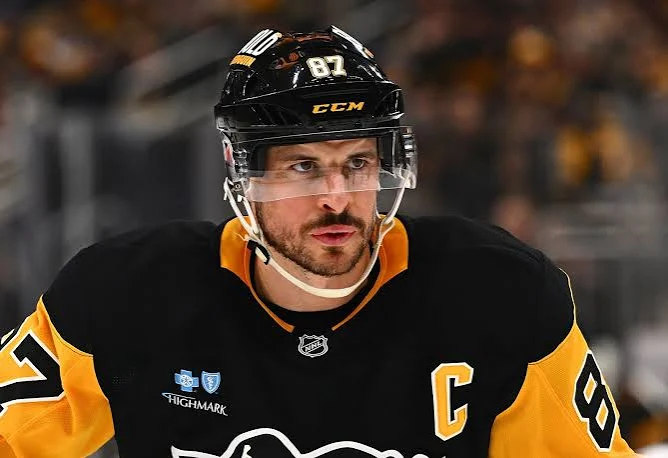
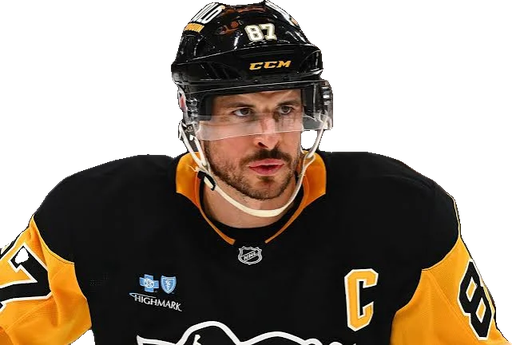
feat(demo): cut photo backgrounds, Mario auto-login, full coach view (Jack Adams)
- Background-remove all 15 NHLer photos (rembg/U2-Net) to transparent PNGs so
  only the player shows on the card, matching Lewie's portrait treatment.
- Demo player login (hi@woodymacduffie.com + 'player') signs straight in as
  Mario Lemieux (no picker); greeting now reads 'Hey Mario'.
- Coach view is a full separate team too: intercept the demo coach's
  /api/coach roster/schedule/team-coaches reads client-side so Coach Home shows
  the 15 NHLers, participation, top-this-week, the USSR next game, and Jack Adams
  (with his cut-out photo) in the coaches strip.
- Move demo script includes to top of body so the coach fetch shim installs
  before the coach boot fires.

diff --git a/index.html b/index.html
@@ -1126,7 +1126,7 @@ body.login-locked{overflow:hidden}
   .sp-sass,.sp-skater,.sp-frame,.sp-bubble-img,.sp-burst-img,.sp-shards,.sp-speed,.sp-speed i,.sp-ice,.sp-crack{transition:none!important;animation:none!important}
   #loginStage.shake,.login-modal{animation:none}
 }
-</style><script>try{if(localStorage.getItem('thwapTheme')==='dark')document.documentElement.setAttribute('data-theme','dark');}catch(e){}</script></head><body><div class='app'>
+</style><script>try{if(localStorage.getItem('thwapTheme')==='dark')document.documentElement.setAttribute('data-theme','dark');}catch(e){}</script></head><body><script src='demo/demo-data.js'></script><script src='demo/demo-mode.js'></script><div class='app'>
 <!-- Break the Ice login splash: two fixed layers over the real homepage.
      #loginBackdrop (frost + Sass/THWAP stage) sits BELOW the site header so its
      Sign In / Join Waitlist links stay visible and tappable; #loginOverlay (the
@@ -5879,15 +5879,16 @@ if(form){
       if(dres&&dres.error){ errEl.textContent=dres.error; pwEl.focus(); pwEl.select(); return; }
       if(dres&&dres.role==='player'){
         window.THWAP_DEMO.activate();
-        try{ sessionStorage.setItem('thwapDemoPick','1'); }catch(_){}
-        /* set the auth cookie marker so the gate opens; player is chosen in the picker */
-        var drec={pid:'demo',name:'',email:email,year:SEASON_YEAR,ts:Date.now()};
+        /* Demo player signs straight in as Mario Lemieux (no picker). */
+        var DEMO_PLAYER='Mario Lemieux';
+        try{ localStorage.setItem('bfPlayer', DEMO_PLAYER); }catch(_){}
+        var drec={pid:'demo',name:DEMO_PLAYER,email:email,year:SEASON_YEAR,ts:Date.now()};
         try{ cookieSet(AUTH_KEY, JSON.stringify(drec), keepEl.checked?180:0); }catch(_){}
         hide(); location.hash='#home'; location.reload(); return;
       }
       if(dres&&dres.role==='coach'){
         window.THWAP_DEMO.activate();
-        try{ localStorage.setItem('thwapCoach', JSON.stringify({ token:'demo', email:email, name:'Coach', teams:['DEMO'], teamList:[{code:'DEMO',name:window.THWAP_DEMO.TEAM_NAME,ageGroup:''}], childPlayerId:null, demo:true })); }catch(_){}
+        try{ localStorage.setItem('thwapCoach', JSON.stringify({ token:'demo', email:email, name:'Jack Adams', teams:['DEMO'], teamList:[{code:'DEMO',name:window.THWAP_DEMO.TEAM_NAME,ageGroup:''}], childPlayerId:null, demo:true })); }catch(_){}
         hide(); location.hash='#coachhome'; location.reload(); return;
       }
       errEl.textContent="Demo code is 'player' or 'coach'."; pwEl.focus(); pwEl.select(); return;
@@ -6019,6 +6020,4 @@ wireHeaderNav('navWaitlistK', function(){ playToSheet(showWait); });
 window.addEventListener('hashchange',function(){ if(location.hash==='#login'){ show(); maybeSplash(); } });
 gate();
 })();</script>
-<script src='demo/demo-data.js'></script>
-<script src='demo/demo-mode.js'></script>
 </body></html>

diff --git a/demo/demo-data.js b/demo/demo-data.js
@@ -27,6 +27,8 @@
   var DEMO_TEAM_VALUE = 'demo-team';           // <option value> in the login select
   var DEMO_TEAM_NAME = 'Demo Team';
   var DEMO_NEXT_OPPONENT = 'USSR All-Time Team';
+  var DEMO_COACH_NAME = 'Jack Adams';
+  var DEMO_COACH_PHOTO = 'demo/players/coach_adams.png';
 
   // Tier totals, descending by rank. tier is for grouping only; stats drive standings.
   var TIER = {
@@ -138,6 +140,43 @@
     } catch (e) {}
   }
 
+  // ---- Coach-view responses --------------------------------------------------
+  // These mirror the shapes the coach home reads from /api/coach so demo-mode can
+  // answer those fetches client-side (no DEMO team exists in the backend).
+  function coachRoster() {
+    var members = ROSTER.map(function (p) {
+      return {
+        playerId: p.id,
+        firstName: p.first,
+        lastName: p.last,
+        num: p.num,
+        idpGoal: 'Compete every shift',
+        week: { stick: p.stick, shoot: p.shoot, dryland: p.dryland },
+      };
+    });
+    var trained = members.filter(function (m) {
+      var w = m.week || {}; return ((w.stick || 0) + (w.shoot || 0) + (w.dryland || 0)) > 0;
+    }).length;
+    return {
+      ok: true,
+      team: { code: 'DEMO', name: DEMO_TEAM_NAME },
+      participation: { trained: trained, total: members.length },
+      members: members,
+    };
+  }
+  function coachSchedule() {
+    var g = nextGame();
+    return { ok: true, next: { nextGame: g }, schedule: { events: [g] } };
+  }
+  function coachCoaches() {
+    return {
+      ok: true,
+      coaches: [
+        { email: DEMO_EMAIL, name: DEMO_COACH_NAME, role: 'head', photo: DEMO_COACH_PHOTO },
+      ],
+    };
+  }
+
   // Login result for the demo team, or null if the inputs are not the demo combo.
   // email must match, team must be the demo option, code is 'player' or 'coach'.
   function login(team, email, code) {
@@ -154,6 +193,8 @@
     TEAM_VALUE: DEMO_TEAM_VALUE,
     TEAM_NAME: DEMO_TEAM_NAME,
     OPPONENT: DEMO_NEXT_OPPONENT,
+    COACH_NAME: DEMO_COACH_NAME,
+    COACH_PHOTO: DEMO_COACH_PHOTO,
     roster: ROSTER,
     byId: byId,
     bySlug: bySlug,
@@ -163,6 +204,9 @@
     boardAll: boardAll,
     teamTotals: teamTotals,
     nextGame: nextGame,
+    coachRoster: coachRoster,
+    coachSchedule: coachSchedule,
+    coachCoaches: coachCoaches,
     posLabel: posLabel,
     isActive: isActive,
     activate: activate,

diff --git a/demo/demo-mode.js b/demo/demo-mode.js
@@ -24,6 +24,33 @@
   var D = window.THWAP_DEMO;
   if (!D) return;
 
+  /* Coach view: the coach home reads roster / schedule / team-coaches from
+     /api/coach, which has no DEMO team. Intercept those GETs when demo is active
+     and answer from THWAP_DEMO so the coach home shows the NHLers, the USSR next
+     game, and Jack Adams in the coaches strip. The real coach path is untouched
+     when demo is off. Only demo GET reads are shimmed; writes fall through. */
+  (function installCoachFetchShim() {
+    if (typeof window.fetch !== 'function') return;
+    var realFetch = window.fetch.bind(window);
+    function jsonResponse(obj) {
+      return new Response(JSON.stringify(obj), { status: 200, headers: { 'Content-Type': 'application/json' } });
+    }
+    window.fetch = function (input, init) {
+      try {
+        if (D.isActive()) {
+          var url = (typeof input === 'string') ? input : (input && input.url) || '';
+          var method = ((init && init.method) || (input && input.method) || 'GET').toUpperCase();
+          if (method === 'GET' && url.indexOf('/api/coach') !== -1) {
+            if (/action=roster/.test(url)) return Promise.resolve(jsonResponse(D.coachRoster()));
+            if (/action=schedule/.test(url)) return Promise.resolve(jsonResponse(D.coachSchedule()));
+            if (/action=team-coaches/.test(url)) return Promise.resolve(jsonResponse(D.coachCoaches()));
+          }
+        }
+      } catch (e) {}
+      return realFetch(input, init);
+    };
+  })();
+
   /* Resolve demo card facts for currentPlayer(). Read by index.html's
      currentPlayer via window.thwapDemoInfo (no-op off-demo). */
   window.thwapDemoInfo = function (name) {
